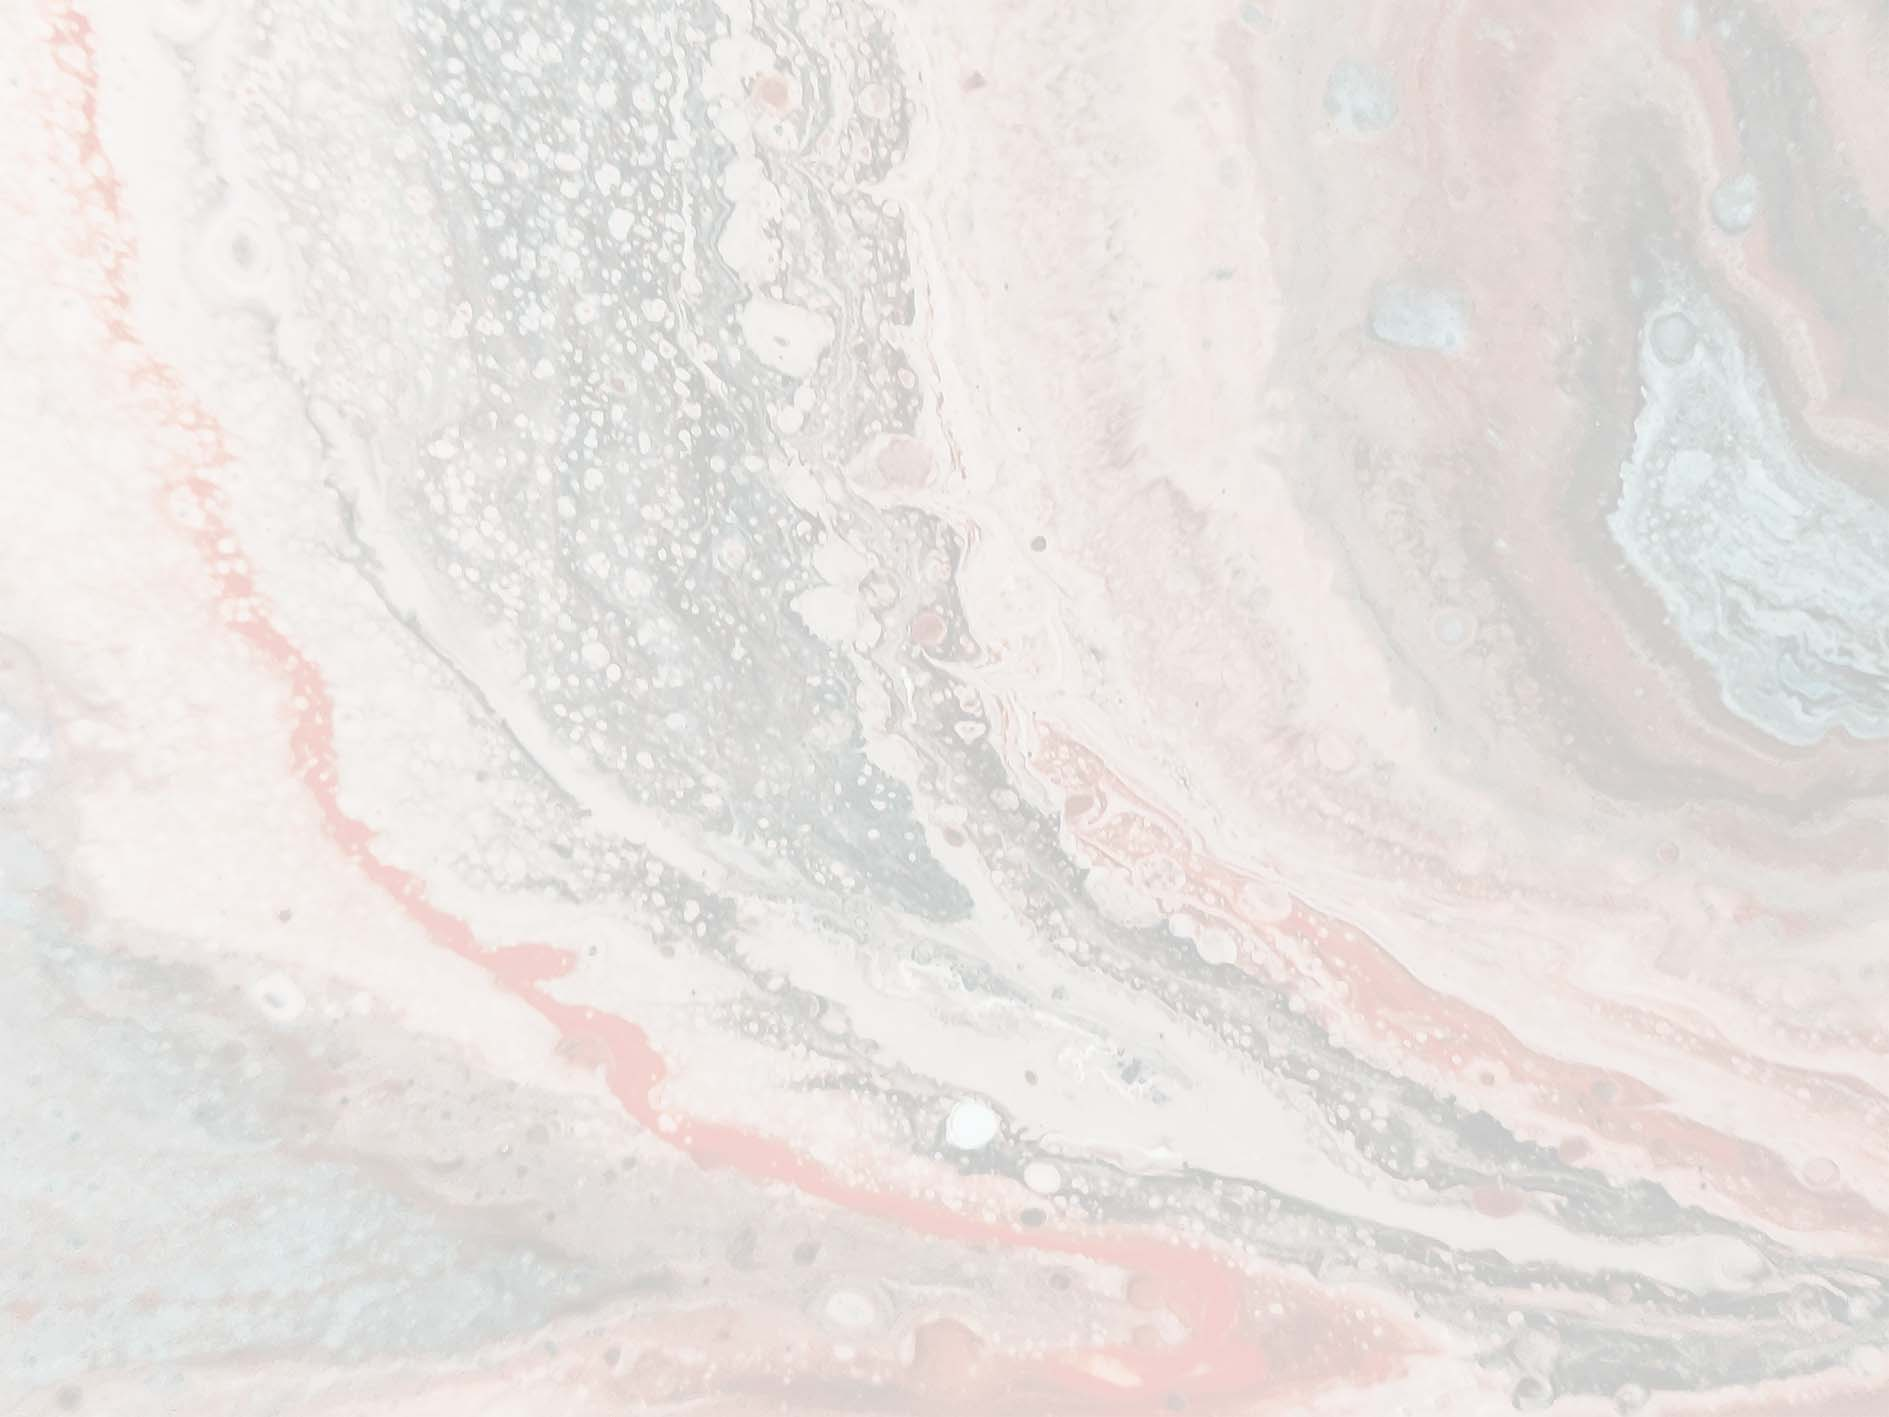
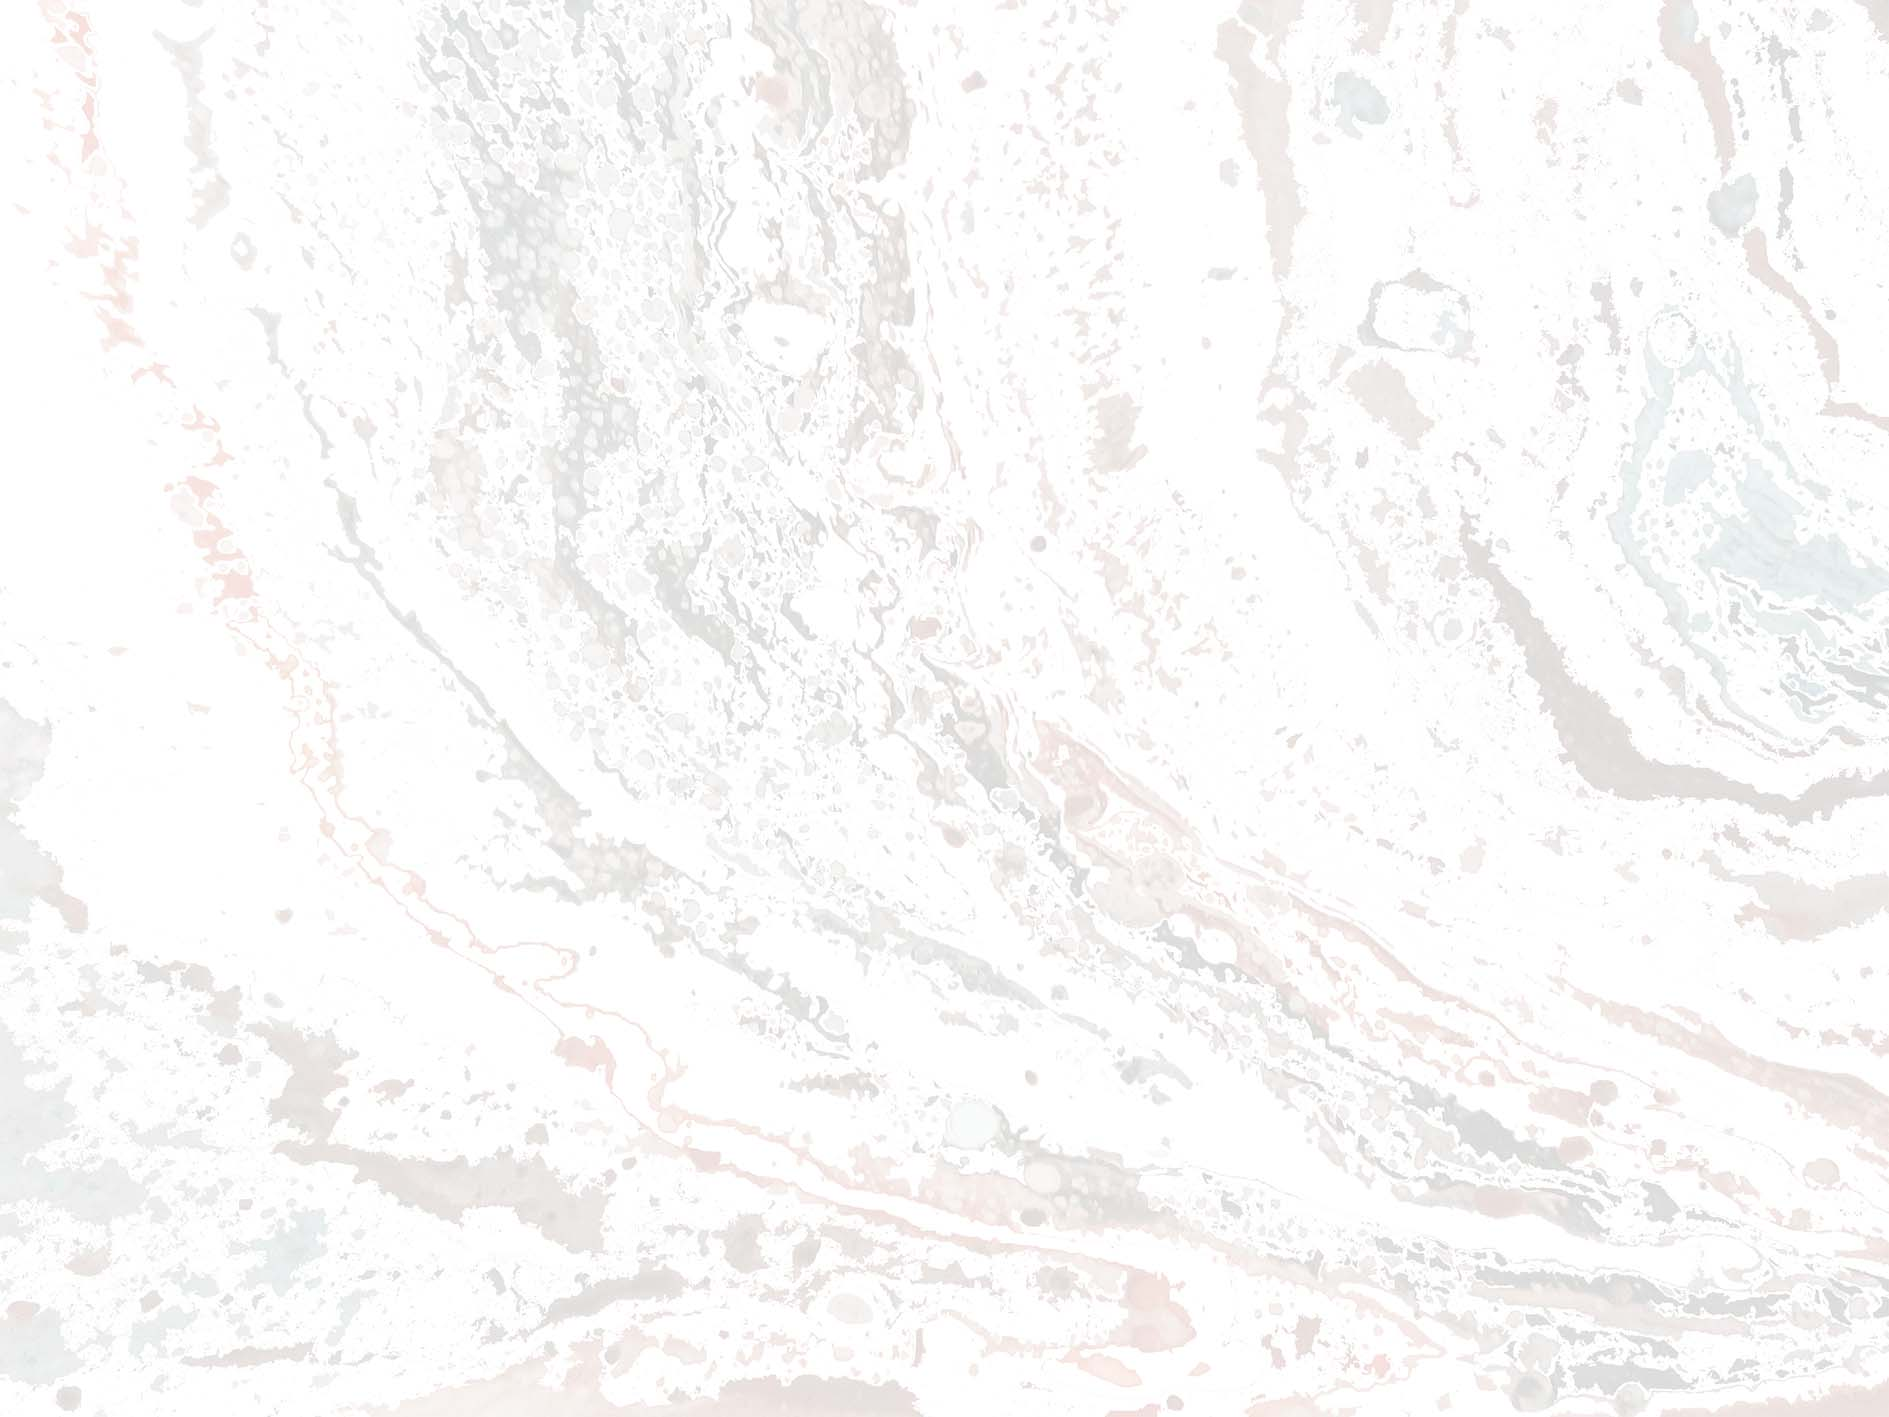
hero image
image editing
add responsive version

diff --git a/index.html b/index.html
@@ -26,7 +26,7 @@
     <main>
 
         <section class="hero">
-            <div class="card" style="margin: 1rem;">
+            <div class="card" style="">
                 <div id="site-intro">
                     <h1>Chemical Atlas</h1>
                     <p>A multimedia platform exploring innovative ways to understand, represent, and map the complex and evolving impacts of chemical pollution through interdisciplinary collaboration, cutting-edge methods, and storytelling. <a href="./about.html">Find&nbsp;out&nbsp;more.</a></p>

diff --git a/css/style.css b/css/style.css
@@ -271,7 +271,7 @@ fieldset legend {
 }
 
 #filter-buttons {
-    margin: 0.5rem 1rem;
+    margin: 1rem 1rem;
     display: flex;
     flex-direction: row;
     justify-content: space-between;
@@ -365,6 +365,9 @@ fieldset legend {
         font-size: 2.3rem;
         margin-top: 0rem;
         padding: 0;
+    }
+    .hero {
+        background-image: url("../imgs/placeholder-main-mobile.jpg");
     }
 
     .hero h1 {
